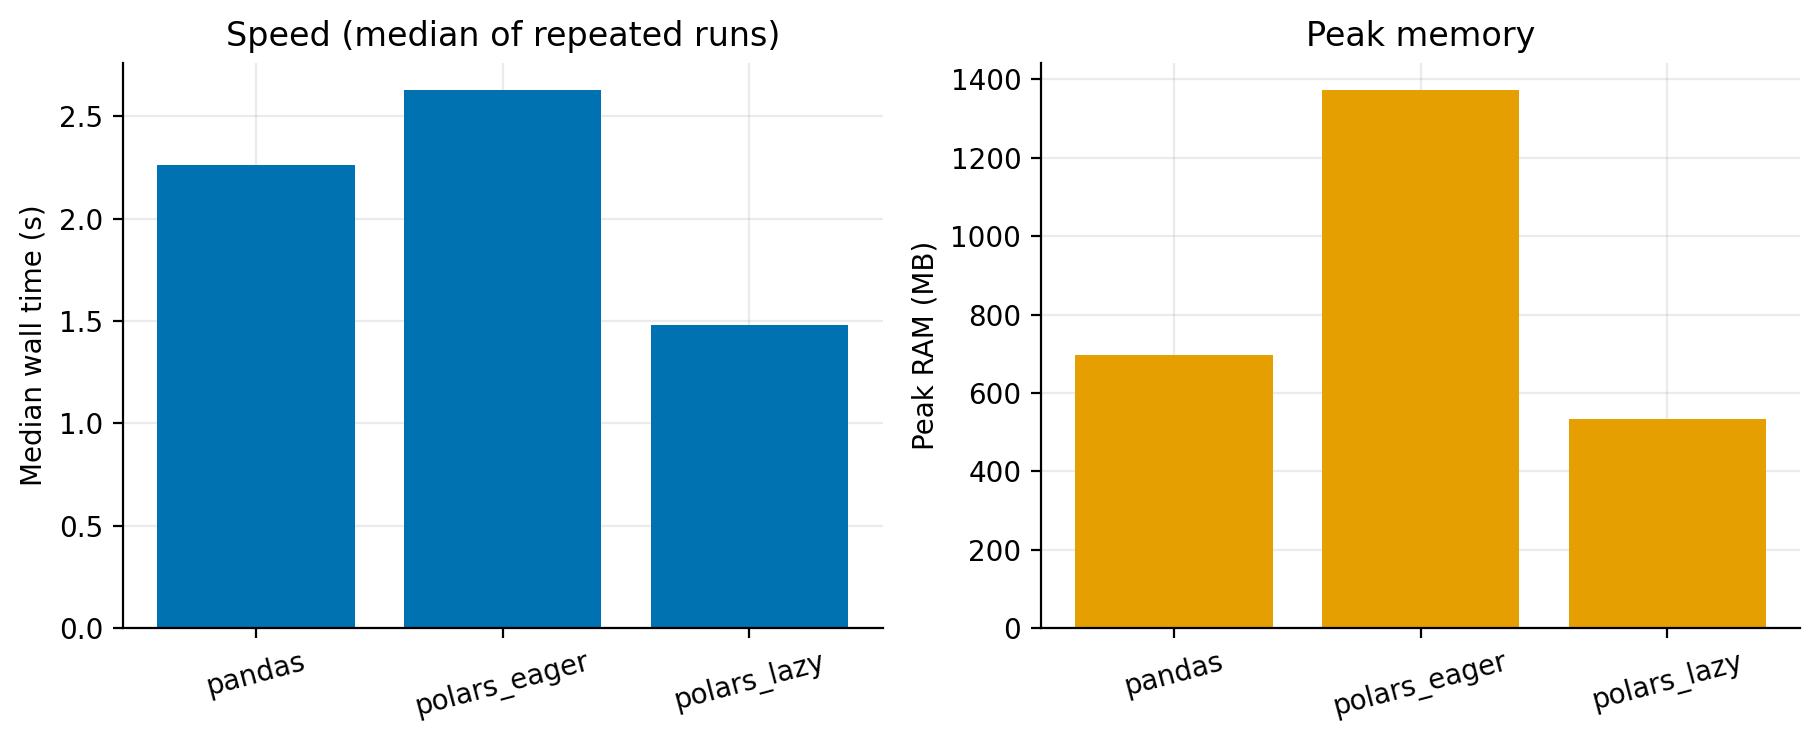
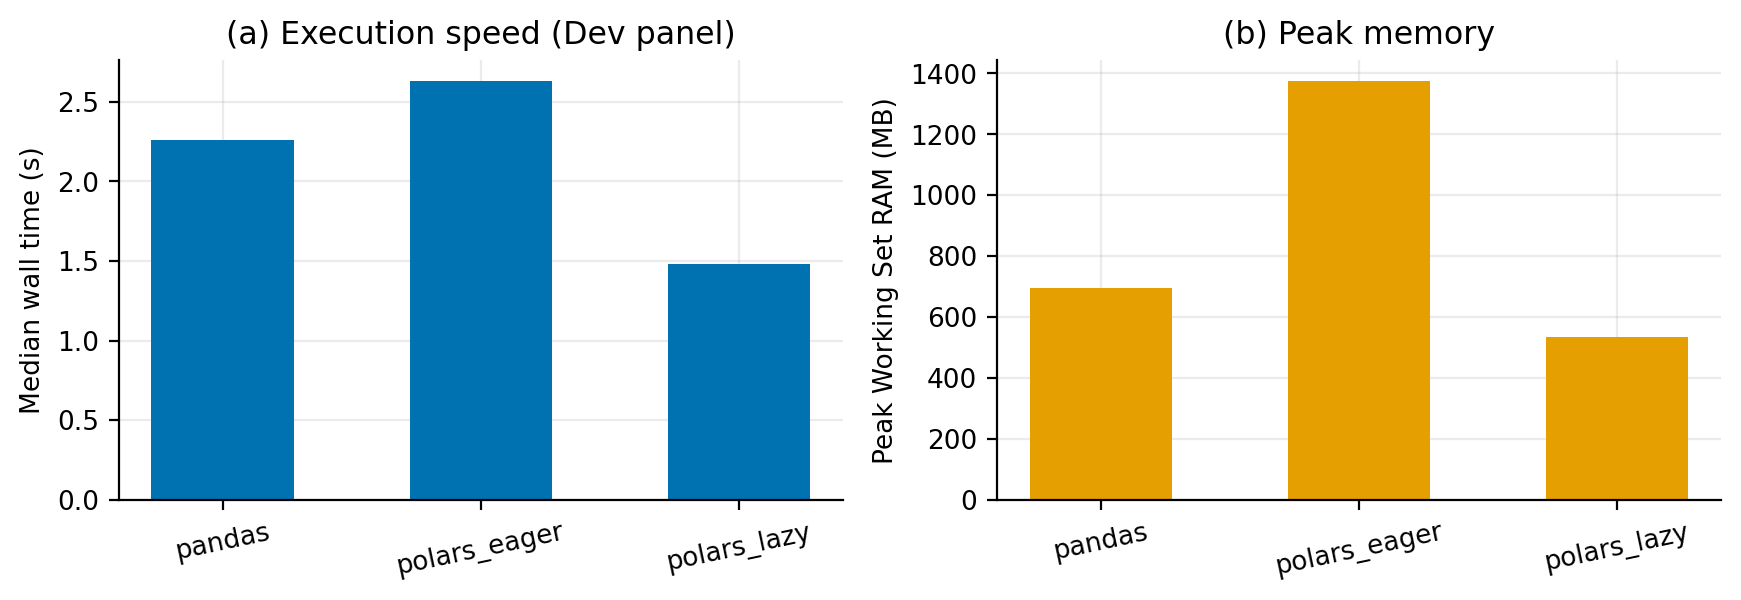
Update reproducible figure script and output PNGs

diff --git a/src/10_make_figures.py b/src/10_make_figures.py
@@ -1,38 +1,73 @@
-"""Part 6 helper: rebuild every report figure from the CSV files saved in outputs/.
+"""Part 6 helper: rebuild ALL report figures directly from saved files in outputs/.
 
 Reads only files that earlier scripts already wrote (no raw data, no model refit, no test
 re-evaluation). Run from the repository root:
 
     python src/10_make_figures.py
 
-Figures are written to outputs/figures/*.png. A figure whose input CSV is missing is skipped.
+Figures are written to outputs/figures/fig1_*.png ... fig9_*.png.
 """
+import os
+import re
 from pathlib import Path
 
 import matplotlib
 matplotlib.use("Agg")
+import matplotlib.patches as mpatches
 import matplotlib.pyplot as plt
+import numpy as np
 import pandas as pd
 
-OUT = Path("outputs")
+OUT = Path(os.environ.get("BFT65B_OUT", "outputs"))
 FIG = OUT / "figures"
 FIG.mkdir(parents=True, exist_ok=True)
 
-# colour-blind-safe palette (Okabe-Ito subset)
-C_BLUE, C_ORANGE, C_GREEN, C_GREY, C_RED = "#0072B2", "#E69F00", "#009E73", "#7F7F7F", "#D55E00"
+# Colour-blind-safe Okabe-Ito palette
+C_NAVY = "#1B365D"
+C_BLUE = "#0072B2"
+C_ORANGE = "#E69F00"
+C_GREEN = "#009E73"
+C_GREY = "#7F8C8D"
+C_RED = "#D55E00"
+
 plt.rcParams.update({
-    "figure.dpi": 130, "savefig.dpi": 200, "font.size": 10,
+    "figure.dpi": 130, "savefig.dpi": 200, "font.size": 9.5,
     "axes.spines.top": False, "axes.spines.right": False, "axes.grid": True,
     "grid.alpha": 0.25, "axes.axisbelow": True,
 })
 
 
-def read(name):
+def read_csv(name):
     p = OUT / name
     if not p.exists():
         print(f"[skip] {p} not found")
         return None
     return pd.read_csv(p)
+
+
+def parse_polars_table(path, col_key, col_val):
+    """Parse ASCII/Unicode Polars table from saved .txt report into dict."""
+    p = OUT / path
+    if not p.exists():
+        print(f"[skip] {p} not found")
+        return None
+    txt = p.read_text(encoding="utf-8", errors="replace")
+    rows = {}
+    in_target = False
+    for line in txt.splitlines():
+        if col_key in line and col_val in line:
+            in_target = True
+            continue
+        if in_target:
+            if line.startswith("└") or (line.strip() == "" and len(rows) > 0):
+                break
+            parts = [c.strip() for c in re.split(r"[│┆|]", line) if c.strip()]
+            if len(parts) >= 2 and parts[0] not in ("---", "str", col_key):
+                try:
+                    rows[parts[0]] = float(parts[-1])
+                except ValueError:
+                    pass
+    return rows if rows else None
 
 
 def save(fig, name):
@@ -42,141 +77,223 @@ def save(fig, name):
     print(f"[ok]   outputs/figures/{name}")
 
 
-# ---------------------------------------------------------------- Part 1: storage
-df = read("part1_storage_benchmark.csv")
+# ---------------------------------------------------------------- Fig 0: Architecture diagram
+fig, ax = plt.subplots(figsize=(10.6, 2.2))
+ax.axis("off")
+steps = [
+    ("1. Acquisition", "FDIC API (1984Q1-2026Q2)\nResumable + Manifest"),
+    ("2. Storage", "Parquet + Zstd\nSchema Harmonisation"),
+    ("3. Quality Audit", "Schema, Nulls, Anomalies\nYTD De-cumulation (*_Q)"),
+    ("4. Clean Panel", "Point-in-Time y(q, q+4]\nIsolate COST & >=FAILDATE"),
+    ("5. Scalable Engine", "Polars Lazy vs. Pandas\nPySpark Catalyst Plan"),
+    ("6. EWS Modelling", "29 CAMELS + 10 Flags\nDev CV -> Single Test Run"),
+]
+w, h, gap = 0.145, 0.68, 0.022
+for idx, (title, body) in enumerate(steps):
+    x = 0.01 + idx * (w + gap)
+    hdr = mpatches.FancyBboxPatch((x, 0.52), w, 0.30, boxstyle="round,pad=0.015", fc=C_NAVY, ec=C_NAVY)
+    box = mpatches.FancyBboxPatch((x, 0.12), w, 0.42, boxstyle="round,pad=0.015", fc="#F8FAFC", ec=C_NAVY, lw=1.1)
+    ax.add_patch(box)
+    ax.add_patch(hdr)
+    ax.text(x + w / 2, 0.67, title, ha="center", va="center", color="white", fontweight="bold", fontsize=8.8)
+    ax.text(x + w / 2, 0.32, body, ha="center", va="center", color="#1E293B", fontsize=7.6)
+    if idx < len(steps) - 1:
+        ax.annotate("", xy=(x + w + gap - 0.002, 0.47), xytext=(x + w + 0.002, 0.47),
+                    arrowprops=dict(arrowstyle="->", color=C_NAVY, lw=1.5))
+ax.set_xlim(0, 1)
+ax.set_ylim(0, 0.95)
+ax.set_title("End-to-End FDIC Bank Failure Early-Warning Pipeline Architecture", fontweight="bold", fontsize=10.5, pad=4)
+save(fig, "fig0_pipeline_architecture.png")
+
+# ---------------------------------------------------------------- Fig 1: Part 1 storage
+df = read_csv("part1_storage_benchmark.csv")
 if df is not None:
-    fig, ax = plt.subplots(1, 2, figsize=(11.5, 4.0))
-    ax[0].barh(df["Layout"], df["Size (MB)"], color=C_BLUE)
+    fig, ax = plt.subplots(1, 2, figsize=(10.8, 3.3))
+    ax[0].barh(df["Layout"], df["Size (MB)"], color=C_BLUE, height=0.62)
     ax[0].set_xlabel("Size on disk (MB)")
-    ax[0].set_title("Storage footprint")
+    ax[0].set_title("(a) Storage footprint")
     ax[0].invert_yaxis()
     y = range(len(df))
-    h = 0.38
-    ax[1].barh([i - h / 2 for i in y], df["Full read (s)"], h, label="Full read", color=C_BLUE)
-    ax[1].barh([i + h / 2 for i in y], df["5 cols + year>=2008 (s)"], h,
+    bh = 0.36
+    ax[1].barh([i - bh / 2 for i in y], df["Full read (s)"], bh, label="Full read", color=C_BLUE)
+    ax[1].barh([i + bh / 2 for i in y], df["5 cols + year>=2008 (s)"], bh,
                label="5 columns + year >= 2008", color=C_ORANGE)
     ax[1].set_yticks(list(y))
-    ax[1].set_yticklabels([])  # share row order with left panel to avoid label collision
+    ax[1].set_yticklabels([])
     ax[1].invert_yaxis()
     ax[1].set_xlabel("Read time (s)")
-    ax[1].set_title("Read performance")
+    ax[1].set_title("(b) Read performance")
     ax[1].legend(loc="lower right", frameon=True, facecolor="white", framealpha=0.92, edgecolor="none")
     save(fig, "fig1_storage_benchmark.png")
 
-# ---------------------------------------------------------------- Part 2: banks per quarter
-df = read("part2_banks_per_quarter.csv")
+# ---------------------------------------------------------------- Fig 2: Part 2 banks per quarter + split
+df = read_csv("part2_banks_per_quarter.csv")
 if df is not None:
     d = pd.to_datetime(df["REPDTE"].astype(str), format="%Y%m%d", errors="coerce")
-    fig, ax = plt.subplots(figsize=(8.5, 3.6))
-    ax.plot(d, df["n_banks"], color=C_BLUE, lw=1.6)
-    ax.set_ylabel("Reporting banks")
-    ax.set_title("Banks in the Call Report panel per quarter")
+    fig, ax = plt.subplots(figsize=(9.6, 3.1))
+    ax.axvspan(pd.Timestamp("1984-03-31"), pd.Timestamp("2009-12-31"), color="#EBF5FB", alpha=0.7, label="Dev (1984Q1-2009Q4)")
+    ax.axvspan(pd.Timestamp("2010-01-01"), pd.Timestamp("2010-12-31"), color="#FEF9E7", alpha=0.95, label="4-Qtr Purge Gap (2010)")
+    ax.axvspan(pd.Timestamp("2011-01-01"), pd.Timestamp("2025-06-30"), color="#E8F8F5", alpha=0.7, label="Test (2011Q1-2025Q2)")
+    ax.axvspan(pd.Timestamp("2025-07-01"), pd.Timestamp("2026-06-30"), color="#EBEDEF", alpha=0.8, label="Right-censored (>2025Q2)")
+    ax.plot(d, df["n_banks"], color=C_NAVY, lw=1.8, label="Reporting banks")
+    idx_max = df["n_banks"].idxmax()
+    ax.annotate(f"Peak: {int(df.loc[idx_max, 'n_banks']):,}", (d.iloc[idx_max], df.loc[idx_max, "n_banks"]),
+                xytext=(25, -4), textcoords="offset points", fontsize=8.5, fontweight="bold", color=C_NAVY,
+                arrowprops=dict(arrowstyle="->", color=C_NAVY, lw=0.9))
+    ax.annotate(f"End: {int(df['n_banks'].iloc[-1]):,}", (d.iloc[-1], df["n_banks"].iloc[-1]),
+                xytext=(-75, 16), textcoords="offset points", fontsize=8.5, fontweight="bold", color=C_NAVY,
+                arrowprops=dict(arrowstyle="->", color=C_NAVY, lw=0.9))
+    ax.set_ylabel("Reporting banks (CERT)")
+    ax.set_xlabel("Report quarter (REPDTE)")
+    ax.set_title("Unbalanced Call Report Panel Size (1984Q1-2026Q2) and Temporal Split (Option B)")
+    ax.legend(loc="upper right", fontsize=8, frameon=True, facecolor="white", framealpha=0.9)
     save(fig, "fig2_banks_per_quarter.png")
 
-# ---------------------------------------------------------------- Part 3: engines
-df = read("part3_polars_vs_pandas.csv")
+# ---------------------------------------------------------------- Fig 3: Part 3 Polars vs Pandas
+df = read_csv("part3_polars_vs_pandas.csv")
 if df is not None:
-    fig, ax = plt.subplots(1, 2, figsize=(9.2, 3.8))
-    ax[0].bar(df["method"], df["median_seconds"], color=C_BLUE)
+    fig, ax = plt.subplots(1, 2, figsize=(8.8, 3.1))
+    ax[0].bar(df["method"], df["median_seconds"], color=C_BLUE, width=0.55)
     ax[0].set_ylabel("Median wall time (s)")
-    ax[0].set_title("Speed (median of repeated runs)")
-    ax[1].bar(df["method"], df["peak_RAM_MB"], color=C_ORANGE)
-    ax[1].set_ylabel("Peak RAM (MB)")
-    ax[1].set_title("Peak memory")
+    ax[0].set_title("(a) Execution speed (Dev panel)")
+    ax[1].bar(df["method"], df["peak_RAM_MB"], color=C_ORANGE, width=0.55)
+    ax[1].set_ylabel("Peak Working Set RAM (MB)")
+    ax[1].set_title("(b) Peak memory")
     for a in ax:
-        a.tick_params(axis="x", rotation=15)
+        a.tick_params(axis="x", rotation=12)
     save(fig, "fig3_polars_vs_pandas.png")
 
-df = read("part3_scaling.csv")
+# ---------------------------------------------------------------- Fig 4: Part 3 Scaling
+df = read_csv("part3_scaling.csv")
 if df is not None:
-    fig, ax = plt.subplots(1, 2, figsize=(9.2, 3.8))
+    fig, ax = plt.subplots(1, 2, figsize=(9.4, 3.1))
     colors = {"polars_lazy": C_BLUE, "pandas": C_ORANGE}
     for m, g in df.groupby("method"):
         g = g.sort_values("panel_rows")
-        ax[0].plot(g["panel_rows"] / 1e6, g["median_seconds"], "o-", label=m, color=colors.get(m, C_GREY))
-        ax[1].plot(g["panel_rows"] / 1e6, g["peak_RAM_MB"], "o-", label=m, color=colors.get(m, C_GREY))
+        ax[0].plot(g["panel_rows"] / 1e6, g["median_seconds"], "o-", lw=1.8, label=m, color=colors.get(m, C_GREY))
+        ax[1].plot(g["panel_rows"] / 1e6, g["peak_RAM_MB"], "o-", lw=1.8, label=m, color=colors.get(m, C_GREY))
     ax[0].set_xlabel("Panel rows (millions)")
     ax[0].set_ylabel("Median time (s)")
-    ax[0].set_title("Scaling: time")
+    ax[0].set_title("(a) Scaling: execution time (1x-3x)")
     ax[1].set_xlabel("Panel rows (millions)")
     ax[1].set_ylabel("Peak RAM (MB)")
-    ax[1].set_title("Scaling: memory")
+    ax[1].set_title("(b) Scaling: peak memory (1x-3x)")
     ax[0].legend(loc="upper left", frameon=False)
     save(fig, "fig4_scaling.png")
 
-# ---------------------------------------------------------------- Part 5: CV
-df = read("part5_cv_results.csv")
+# ---------------------------------------------------------------- Fig 5: Part 4 Winsorization correlations
+pre_corr = parse_polars_table("part4_features_report.txt", "column", "corr_with_y_dev")
+post_corr = parse_polars_table("part4_preprocess_report.txt", "feature", "dev_post_win_corr_y")
+if pre_corr and post_corr:
+    cdf = pd.DataFrame({"pre": pd.Series(pre_corr), "post": pd.Series(post_corr)}).dropna()
+    cdf["abs_post"] = cdf["post"].abs()
+    cdf = cdf.sort_values("abs_post", ascending=False).head(12).iloc[::-1]
+    fig, ax = plt.subplots(figsize=(9.2, 3.6))
+    y = np.arange(len(cdf))
+    bh = 0.38
+    ax.barh(y - bh / 2, cdf["pre"], bh, color=C_GREY, alpha=0.75, label="Raw feature (pre-winsorization)")
+    ax.barh(y + bh / 2, cdf["post"], bh, color=C_NAVY, label="Post-pipeline on Dev (0.5%-99.5% winsorized + imputed)")
+    ax.axvline(0, color="#334155", lw=0.9)
+    ax.set_yticks(y)
+    ax.set_yticklabels(cdf.index)
+    ax.set_xlim(-0.34, 0.33)
+    ax.set_xlabel("Pearson correlation (r) with failure label y on Dev period (n = 1,295,349)")
+    ax.set_title("Signal Recovery After Training-Only Winsorization (Top 12 CAMELS Features)")
+    ax.legend(loc="lower left", fontsize=8.2, frameon=True, facecolor="white", framealpha=0.92)
+    save(fig, "fig5_winsorization_corr.png")
+
+# ---------------------------------------------------------------- Fig 6: Part 5 CV PR-AUC
+df = read_csv("part5_cv_results.csv")
 if df is not None:
     pv = df.pivot(index="fold", columns="model", values="PR_AUC")
     pv = pv.reindex(sorted(pv.index))
-    fig, ax = plt.subplots(figsize=(8.5, 3.9))
-    pv.plot.bar(ax=ax, color=[C_GREY, C_ORANGE, C_BLUE][: pv.shape[1]], width=0.72)
+    fig, ax = plt.subplots(figsize=(8.6, 3.1))
+    pv.plot.bar(ax=ax, color=[C_GREY, C_ORANGE, C_BLUE][: pv.shape[1]], width=0.70)
     ax.set_ylabel("PR-AUC")
     ax.set_xlabel("")
     ax.set_ylim(0, pv.to_numpy().max() * 1.18)
-    ax.set_title("Temporal cross-validation on the development period (PR-AUC)")
+    ax.set_title("Expanding-Window Temporal Cross-Validation on Dev Period (PR-AUC)")
     ax.tick_params(axis="x", rotation=0)
     ax.legend(loc="upper left", frameon=False, title=None)
-    save(fig, "fig5_cv_pr_auc.png")
+    save(fig, "fig6_cv_pr_auc.png")
 
-# ---------------------------------------------------------------- Part 5: threshold
-df = read("part5_threshold_curve.csv")
+# ---------------------------------------------------------------- Fig 7: Part 5 Cost threshold curve
+df = read_csv("part5_threshold_curve.csv")
 if df is not None:
     i = df["total_cost_USD_M"].idxmin()
     tau = df.loc[i, "threshold"]
     min_cost = df.loc[i, "total_cost_USD_M"]
-    fig, ax = plt.subplots(1, 2, figsize=(10.5, 3.9))
+    fig, ax = plt.subplots(1, 2, figsize=(10.0, 3.2))
     ax[0].plot(df["threshold"], df["total_cost_USD_M"], color=C_BLUE, lw=1.8)
     ax[0].axvline(tau, color=C_RED, ls="--", lw=1.2)
-    ax[0].annotate(f"tau* = {tau:.3f}\n(${min_cost:.1f}M)", (tau, min_cost),
-                   xytext=(tau + 0.12, min_cost + (df["total_cost_USD_M"].max() - min_cost) * 0.25),
-                   textcoords="data", color=C_RED, fontweight="bold",
+    ax[0].annotate(f"Locked tau* = {tau:.3f}\n(${min_cost:.1f}M)", (tau, min_cost),
+                   xytext=(tau + 0.11, min_cost + (df["total_cost_USD_M"].max() - min_cost) * 0.30),
+                   textcoords="data", color=C_RED, fontweight="bold", fontsize=8.8,
                    arrowprops=dict(arrowstyle="->", color=C_RED, lw=1.0))
-    ax[0].set_xlabel("Alarm threshold")
-    ax[0].set_ylabel("Total cost on dev out-of-fold (USD M)")
-    ax[0].set_title("Cost-based threshold (development data only)")
-    ax[1].plot(df["threshold"], df["recall"], label="Recall", color=C_GREEN, lw=1.8)
-    ax[1].plot(df["threshold"], df["precision"], label="Precision", color=C_ORANGE, lw=1.8)
-    ax[1].axvline(tau, color=C_RED, ls="--", lw=1.2)
-    ax[1].set_xlabel("Alarm threshold")
-    ax[1].set_ylabel("Rate")
-    ax[1].set_title("Recall / precision trade-off")
-    ax[1].legend(loc="center right", frameon=False)
-    save(fig, "fig6_threshold_cost.png")
+    ax[0].set_xlabel("Probability alarm threshold (tau)")
+    ax[0].set_ylabel("Total cost on Dev OOF (USD M)")
+    ax[0].set_title("(a) Cost-minimising threshold on Dev OOF")
+    ax[1].plot(df["threshold"], df["recall"] * 100, label="Row Recall (%)", color=C_GREEN, lw=1.8)
+    ax[1].plot(df["threshold"], df["precision"] * 100, label="Precision (%)", color=C_ORANGE, lw=1.8)
+    ax[1].axvline(tau, color=C_RED, ls="--", lw=1.2, label=f"tau* = {tau:.2f}")
+    ax[1].set_xlabel("Probability alarm threshold (tau)")
+    ax[1].set_ylabel("Percentage (%)")
+    ax[1].set_title("(b) Recall vs. Precision trade-off (Dev OOF)")
+    ax[1].legend(loc="center right", frameon=False, fontsize=8.5)
+    save(fig, "fig7_threshold_cost.png")
 
-# ---------------------------------------------------------------- Part 5: importance
-df = read("part5_feature_importance.csv")
+# ---------------------------------------------------------------- Fig 8: Part 5 Feature importance
+df = read_csv("part5_feature_importance.csv")
 if df is not None:
-    top = df.sort_values("pr_auc_drop_mean", ascending=False).head(15).iloc[::-1]
-    fig, ax = plt.subplots(figsize=(7.8, 4.8))
-    ax.barh(top["feature"], top["pr_auc_drop_mean"], xerr=top["pr_auc_drop_std"], color=C_BLUE,
+    top = df.sort_values("pr_auc_drop_mean", ascending=False).head(12).iloc[::-1]
+    fig, ax = plt.subplots(figsize=(8.6, 3.4))
+    ax.barh(top["feature"], top["pr_auc_drop_mean"], xerr=top["pr_auc_drop_std"], color=C_NAVY, height=0.65,
             error_kw=dict(ecolor=C_GREY, lw=1))
-    ax.set_xlabel("Drop in PR-AUC when feature is permuted (dev fold 3)")
-    ax.set_title("Top 15 features (Permutation Importance)")
-    save(fig, "fig7_feature_importance.png")
+    for idx_bar, (val, std) in enumerate(zip(top["pr_auc_drop_mean"], top["pr_auc_drop_std"])):
+        ax.text(val + std + 0.002, idx_bar, f"-{val:.4f}", va="center", fontsize=8, color="#1E293B")
+    ax.set_xlim(0, top["pr_auc_drop_mean"].max() * 1.22)
+    ax.set_xlabel("Mean PR-AUC drop when feature is permuted (Dev Fold-3: 2008Q1-2009Q4)")
+    ax.set_title("Top 12 Features by Permutation Importance (HistGBDT on Dev Fold-3)")
+    save(fig, "fig8_feature_importance.png")
 
-# ---------------------------------------------------------------- Part 5: test
-df = read("part5_test_evaluation.csv")
+# ---------------------------------------------------------------- Fig 9: Part 5 Single Test evaluation
+df = read_csv("part5_test_evaluation.csv")
 if df is not None:
-    mask = df["threshold_rule"].astype(str).str.lower().str.contains("lock") | (df["tau"] < 0.25)
-    d = df[mask].drop_duplicates(subset=["model"]).set_index("model")
-    rec_pct = d["Recall_row"] * 100 if d["Recall_row"].max() <= 1.0 else d["Recall_row"]
-    no_alarm = d["NoAlarm_Cost_USD_M"].iloc[0]
-    fig, ax = plt.subplots(1, 3, figsize=(11.2, 3.9))
-    ax[0].bar(d.index, d["PR_AUC"], color=C_BLUE, width=0.55)
-    ax[0].set_ylim(0, max(0.7, d["PR_AUC"].max() * 1.18))
-    ax[0].set_title("Test PR-AUC")
-    ax[1].bar(d.index, rec_pct, color=C_GREEN, width=0.55)
-    ax[1].set_ylim(0, 105)
-    ax[1].set_title("Test recall at locked tau* (%)")
-    ax[2].bar(d.index, d["Test_Cost_USD_M"], color=C_ORANGE, width=0.55)
-    ax[2].axhline(no_alarm, color=C_RED, ls="--", lw=1.2)
-    ax[2].set_ylim(0, no_alarm * 1.18)
-    ax[2].annotate(f"no-alarm: ${no_alarm:.1f}M", (0, no_alarm),
-                   xytext=(4, 5), textcoords="offset points", color=C_RED, fontsize=8.5, fontweight="bold")
-    ax[2].set_title("Test cost (USD M, assumed unit costs)")
-    for a in ax:
-        a.tick_params(axis="x", rotation=18)
-    save(fig, "fig8_test_evaluation.png")
+    df["tau_num"] = pd.to_numeric(df["tau"], errors="coerce")
+    mask_lock = df["threshold_rule"].astype(str).str.lower().str.contains("lock") | (df["tau_num"] < 0.25)
+    d_lock = df[mask_lock].drop_duplicates(subset=["model"]).set_index("model")
+    d_def = df[~mask_lock].drop_duplicates(subset=["model"]).set_index("model").reindex(d_lock.index)
+    cost_lock = pd.to_numeric(d_lock["Test_Cost_USD_M"], errors="coerce")
+    cost_def = pd.to_numeric(d_def["Test_Cost_USD_M"], errors="coerce")
+    no_alarm = float(pd.to_numeric(d_lock["NoAlarm_Cost_USD_M"], errors="coerce").iloc[0])
+
+    fig, ax = plt.subplots(1, 2, figsize=(9.8, 3.2))
+    x = np.arange(len(d_lock))
+    bw = 0.35
+    ax[0].bar(x - bw / 2, cost_def, bw, color=C_GREY, alpha=0.8, label="Default tau = 0.50")
+    ax[0].bar(x + bw / 2, cost_lock, bw, color=C_NAVY, label="Dev-locked tau* = 0.05")
+    ax[0].axhline(no_alarm, color=C_RED, ls="--", lw=1.2, label=f"No-alarm (${no_alarm:.1f}M)")
+    ax[0].set_xticks(x)
+    ax[0].set_xticklabels(d_lock.index)
+    ax[0].set_ylim(0, no_alarm * 1.22)
+    ax[0].set_ylabel("Total Test Cost (USD M)")
+    ax[0].set_title("(a) Test Cost: Locked tau*=0.05 vs. Default 0.50")
+    ax[0].legend(loc="upper right", fontsize=7.8, frameon=True, facecolor="white", framealpha=0.9)
+
+    caught_def = pd.to_numeric(d_def["Banks_caught_of_199"].astype(str).str.extract(r"(\d+)")[0], errors="coerce")
+    caught_lock = pd.to_numeric(d_lock["Banks_caught_of_199"].astype(str).str.extract(r"(\d+)")[0], errors="coerce")
+    ax[1].bar(x - bw / 2, caught_def, bw, color=C_GREY, alpha=0.8, label="Default tau = 0.50")
+    ax[1].bar(x + bw / 2, caught_lock, bw, color=C_GREEN, label="Dev-locked tau* = 0.05")
+    ax[1].axhline(199, color=C_RED, ls=":", lw=1.1, label="Total failed banks (199)")
+    for idx_x, val in enumerate(caught_lock):
+        v = float(val)
+        ax[1].text(idx_x + bw / 2, v + 4, f"{int(v)}/199\n({v/199*100:.1f}%)", ha="center", fontsize=7.8, fontweight="bold")
+    ax[1].set_xticks(x)
+    ax[1].set_xticklabels(d_lock.index)
+    ax[1].set_ylim(0, 238)
+    ax[1].set_ylabel("Failed banks caught (>=1 alarm in 4 qtrs)")
+    ax[1].set_title("(b) Failed Banks Caught on Locked Test (2011Q1-2025Q2)")
+    ax[1].legend(loc="lower right", fontsize=7.8, frameon=True, facecolor="white", framealpha=0.9)
+    save(fig, "fig9_test_evaluation.png")
 
 print("done")
